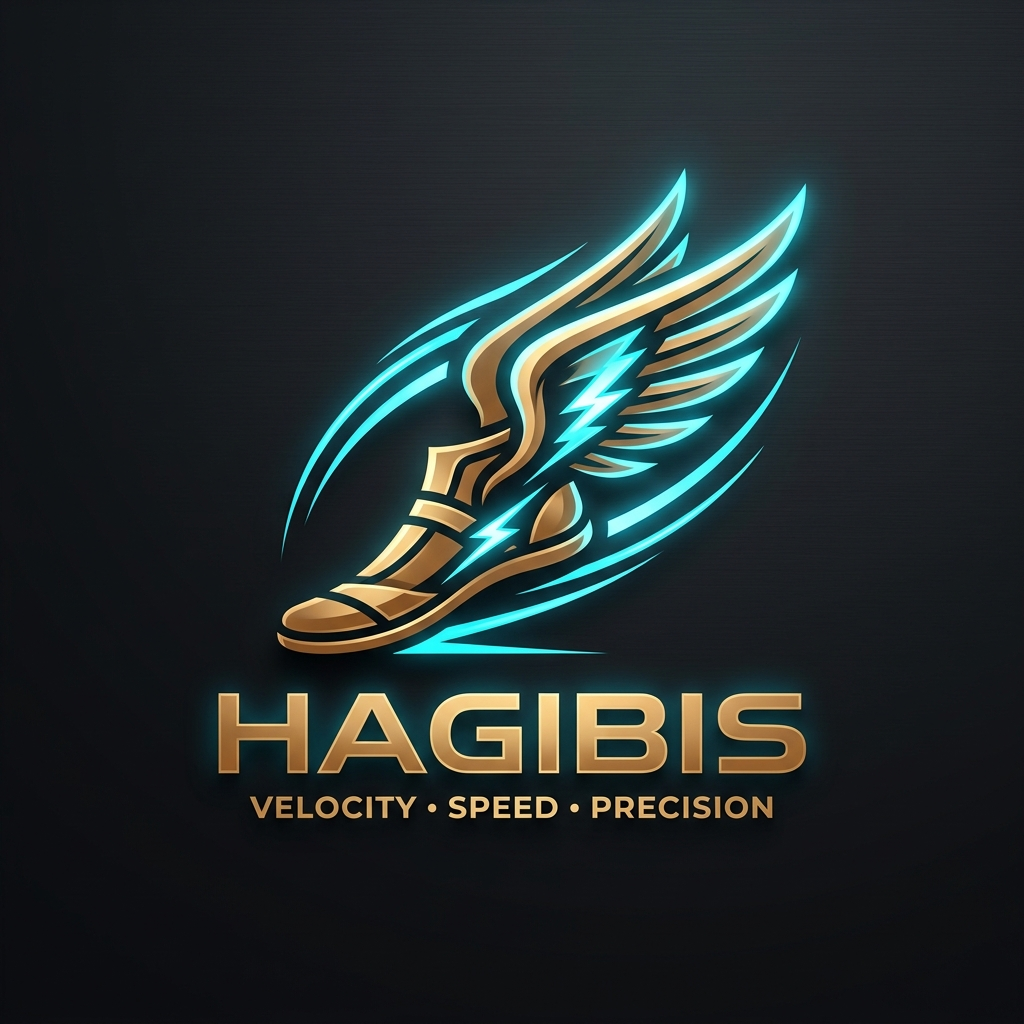
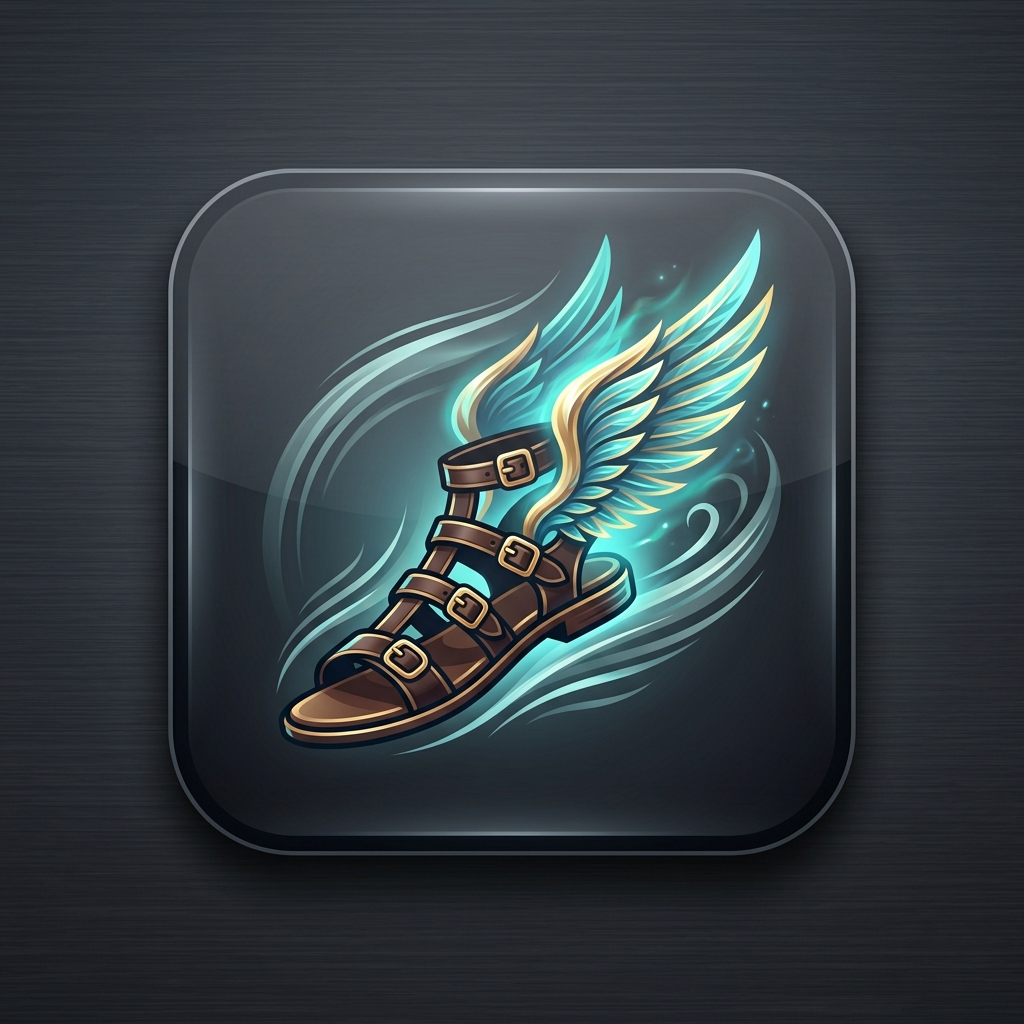
feat(brand): transition Hagibis iconography to Mercury's winged sandal (🪽)
- Replace lightning bolt (⚡) with Mercury's winged sandal emoji (🪽) across:
  * README.md headers, titles, and comparison tables
  * CLI binary (hgb) about descriptions and active model outputs
  * REPL prompts, status displays, and model registry banners
  * Cockpit TUI HUD titles, throughput metrics, and thinking spinners
  * Daemon error and connection status messages
- Update assets/hagibis-winged-sandal.png to pure mythological winged sandal of Mercury

diff --git a/crates/hgb-nextgen/src/cockpit.rs b/crates/hgb-nextgen/src/cockpit.rs
@@ -3106,7 +3106,7 @@ impl CockpitState {
         // --- 1. Top HUD ---
         let hud_block = Block::default()
             .borders(Borders::ALL)
-            .title(" ⚡ HAGIBIS AGY COCKPIT ⚡ ");
+            .title(" 🪽 HAGIBIS AGY COCKPIT 🪽 ");
 
         let temp_color = if self.telemetry.peak_temperature_celsius > 75.0 { Color::Red } else { Color::Green };
         let mut hud_row1 = vec![
@@ -3123,7 +3123,7 @@ impl CockpitState {
             let spinner = SPINNER_FRAMES[self.processing_tick % SPINNER_FRAMES.len()];
             hud_row1.push(Span::raw(" "));
             hud_row1.push(Span::styled(
-                format!(" [⚡ THINKING {}] ", spinner),
+                format!(" [🪽 THINKING {}] ", spinner),
                 Style::default().fg(Color::Black).bg(Color::Yellow).add_modifier(Modifier::BOLD),
             ));
         }
@@ -3133,7 +3133,7 @@ impl CockpitState {
             Line::from(vec![
                 Span::styled("🔥 Thermal: ", Style::default().fg(Color::Yellow)),
                 Span::styled(format!("{:.1}°C  ", self.telemetry.peak_temperature_celsius), Style::default().fg(temp_color).add_modifier(Modifier::BOLD)),
-                Span::styled("⚡ Throughput: ", Style::default().fg(Color::Yellow)),
+                Span::styled("🪽 Throughput: ", Style::default().fg(Color::Yellow)),
                 Span::styled(format!("{:.1} tok/s  ", self.telemetry.tokens_per_sec), Style::default().fg(Color::Cyan)),
                 Span::styled("📊 Tokens: ", Style::default().fg(Color::Yellow)),
                 Span::styled(format!("{}  ", self.telemetry.total_tokens), Style::default().fg(Color::White).add_modifier(Modifier::BOLD)),
@@ -3538,7 +3538,7 @@ impl CockpitState {
         let cwd_span = Span::styled(format!(" 📁 {} ", self.workspace_path), Style::default().fg(Color::DarkGray));
 
         let header_line = Line::from(vec![
-            Span::styled("⚡ HAGIBIS (hgb)", Style::default().fg(Color::Cyan).add_modifier(Modifier::BOLD)),
+            Span::styled("🪽 HAGIBIS (hgb)", Style::default().fg(Color::Cyan).add_modifier(Modifier::BOLD)),
             Span::raw(" "),
             cwd_span,
             Span::raw(" "),
@@ -3721,7 +3721,7 @@ impl CockpitState {
         // 7. Semantic Telepathy Cards
         for card in &self.telepathy_cards {
             chat_lines.push(Line::from(vec![
-                Span::styled("⚡ Telepathy Search: ", Style::default().fg(Color::Magenta).add_modifier(Modifier::BOLD)),
+                Span::styled("🪽 Telepathy Search: ", Style::default().fg(Color::Magenta).add_modifier(Modifier::BOLD)),
                 Span::styled(format!("\"{}\" ({} matches in {}µs)", card.query, card.matches_count, card.latency_us), Style::default().fg(Color::White)),
             ]));
             chat_lines.push(Line::from(vec![
@@ -3838,7 +3838,7 @@ impl CockpitState {
         for card in &self.governor_cards {
             let throttle_badge = if card.throttled { "⚠ THROTTLED" } else { "✓ OPTIMAL" };
             chat_lines.push(Line::from(vec![
-                Span::styled("⚡ Wattage Governor: ", Style::default().fg(Color::LightGreen).add_modifier(Modifier::BOLD)),
+                Span::styled("🪽 Wattage Governor: ", Style::default().fg(Color::LightGreen).add_modifier(Modifier::BOLD)),
                 Span::styled(format!("{:.0} mW | Spent: ${:.4} | {}", card.power_mw, card.spent_usd, throttle_badge), Style::default().fg(Color::White)),
             ]));
             chat_lines.push(Line::from(""));
@@ -3980,7 +3980,7 @@ impl CockpitState {
         // 24. Instant App Forge Cards
         for card in &self.forge_cards {
             let card_w = usable_width.saturating_sub(2).max(48);
-            let header_str = format!("╭── ⚡ App Forge [{}] ", card.stack);
+            let header_str = format!("╭── 🪽 App Forge [{}] ", card.stack);
             let header_w = UnicodeWidthStr::width(header_str.as_str());
             let dashes_count = card_w.saturating_sub(header_w + 1).max(2);
             let top_border = format!("{}{}{}╮", header_str, "─".repeat(dashes_count), " ");
@@ -5001,7 +5001,7 @@ impl CockpitState {
 
         // 5. Statusline Footer
         let bg_tasks_info = if !self.background_tasks.is_empty() {
-            format!("⚡ {} tasks ", self.background_tasks.len())
+            format!("🪽 {} tasks ", self.background_tasks.len())
         } else {
             String::new()
         };

diff --git a/crates/hgb-cli/src/main.rs b/crates/hgb-cli/src/main.rs
@@ -14,8 +14,8 @@ use repl::HagibisRepl;
     name = "hgb",
     bin_name = "hgb",
     version,
-    about = "⚡ Hagibis (hgb): Sub-Millisecond Microkernel & Swarm Engine in Systems-Grade Rust",
-    long_about = "⚡ Hagibis (hgb) — The Sub-Millisecond Microkernel Swarm Engine in Systems-Grade Rust.\nRunning without arguments launches the AGY Chat Canvas & Interactive Cockpit."
+    about = "🪽 Hagibis (hgb): Sub-Millisecond Microkernel & Swarm Engine in Systems-Grade Rust",
+    long_about = "🪽 Hagibis (hgb) — The Sub-Millisecond Microkernel Swarm Engine in Systems-Grade Rust.\nRunning without arguments launches the AGY Chat Canvas & Interactive Cockpit."
 )]
 struct Cli {
     /// Launch classic line-by-line scrolling terminal REPL instead of AGY Chat Canvas
@@ -756,9 +756,9 @@ async fn main() -> Result<(), Box<dyn std::error::Error>> {
             let active_model = active_model_str.as_str();
             let is_local = hgb_core::OllamaProvider::is_ollama_model(active_model);
             if is_local {
-                println!("{}", format!("  ⚡ Local Ollama Reasoning (model: {})...", active_model).magenta().bold());
+                println!("{}", format!("  🪽 Local Ollama Reasoning (model: {})...", active_model).magenta().bold());
             } else {
-                println!("{}", format!("  ⚡ AGY Reasoning (model: {})...", active_model).cyan().bold());
+                println!("{}", format!("  🪽 AGY Reasoning (model: {})...", active_model).cyan().bold());
             }
             let t0 = std::time::Instant::now();
             let req = HgbRequest::Prompt {
@@ -1074,14 +1074,14 @@ async fn main() -> Result<(), Box<dyn std::error::Error>> {
                 }
                 Some(ModelSubcommand::Current) => {
                     if let Some(persisted) = hgb_core::load_active_model() {
-                        println!("⚡ Currently Active Model: {}", persisted.bold().green());
+                        println!("🪽 Currently Active Model: {}", persisted.bold().green());
                         hgb_core::play_vibe_chime(true);
                     } else {
                         let resp = repl_helper.dispatch(HgbRequest::Status).await;
                         match resp {
                             HgbResponse::Status(s) => {
                                 let cur = s.active_models.first().cloned().unwrap_or_else(|| "auto".to_string());
-                                println!("⚡ Currently Active Model: {}", cur.bold().green());
+                                println!("🪽 Currently Active Model: {}", cur.bold().green());
                                 hgb_core::play_vibe_chime(true);
                             }
                             other => repl_helper.render_response(other),
@@ -1205,7 +1205,7 @@ async fn main() -> Result<(), Box<dyn std::error::Error>> {
         }
         Commands::Forge { stack, name } => {
             let project_name = name.as_deref().unwrap_or("my_vibe_app");
-            println!("{}", format!("⚡ Instant App Forge: Scaffolding '{}' with stack '{}'...", project_name, stack).bold().cyan());
+            println!("{}", format!("🪽 Instant App Forge: Scaffolding '{}' with stack '{}'...", project_name, stack).bold().cyan());
             let current_dir = std::env::current_dir().unwrap_or_else(|_| std::path::PathBuf::from("."));
             match hgb_core::forge::ForgeEngine::scaffold(stack.as_str(), project_name, &current_dir) {
                 Ok(rep) => {
@@ -1434,7 +1434,7 @@ async fn main() -> Result<(), Box<dyn std::error::Error>> {
         Commands::Ghost { apply } => {
             let repl_helper = HagibisRepl::new(client);
             let resp = if let Some(fix_id) = apply {
-                println!("{}", format!("⚡ Applying Ghost-Fix '{}'...", fix_id).cyan().bold());
+                println!("{}", format!("🪽 Applying Ghost-Fix '{}'...", fix_id).cyan().bold());
                 repl_helper.dispatch(HgbRequest::GuardianApplyFix { fix_id }).await
             } else {
                 repl_helper.dispatch(HgbRequest::GuardianStatus).await

diff --git a/crates/hgb-cli/src/repl.rs b/crates/hgb-cli/src/repl.rs
@@ -1336,7 +1336,7 @@ impl HagibisRepl {
                 } else if lower == "current" || lower == "status" || lower == "get" {
                     let current = self.model.as_deref().unwrap_or("auto");
                     let is_local = hgb_core::OllamaProvider::is_ollama_model(current);
-                    println!("  ⚡ Current active model: {}", current.bold().green());
+                    println!("  🪽 Current active model: {}", current.bold().green());
                     if is_local {
                         let ollama_status = if hgb_core::OllamaProvider::is_available() {
                             "Local Ollama Engine (online, 0ms latency, zero cloud cost)".magenta()
@@ -2094,7 +2094,7 @@ impl HagibisRepl {
             "Offline".dimmed().to_string()
         };
 
-        println!("\n{}", "⚡ HAGIBIS MODEL REGISTRY ⚡".bold().cyan());
+        println!("\n{}", "🪽 HAGIBIS MODEL REGISTRY 🪽".bold().cyan());
         println!("  [•] Active Model: {}", current.yellow().bold());
         println!("  [•] Google Gemini Cloud: {}", cred.cyan());
         println!("  [•] Local Ollama Engine: {}", ollama_status);
@@ -2143,7 +2143,7 @@ impl HagibisRepl {
                 println!("{} Daemon pong received in {} µs", "✔ PONG:".green().bold(), latency_us);
             }
             HgbResponse::Status(status) => {
-                println!("{}", "⚡ HAGIBIS RESIDENT DAEMON STATUS ⚡".bold().cyan());
+                println!("{}", "🪽 HAGIBIS RESIDENT DAEMON STATUS 🪽".bold().cyan());
                 println!("  [•] Version: {}", status.version.yellow());
                 println!("  [•] Uptime: {} secs", status.uptime_secs);
                 println!("  [•] Memory RSS: {:.1} MB", status.memory_rss_mb);
@@ -2183,7 +2183,7 @@ impl HagibisRepl {
                 println!("{} {} ➔ {} (in {} ms)", "✔ Model Switched:".green().bold(), previous.dimmed(), current.bold().cyan(), duration_ms);
             }
             HgbResponse::ModelList(models) => {
-                println!("{}", "⚡ AVAILABLE AI MODELS ⚡".bold().cyan());
+                println!("{}", "🪽 AVAILABLE AI MODELS 🪽".bold().cyan());
                 let current = self.model.as_deref().unwrap_or("auto");
                 let mut local_models = Vec::new();
                 let mut cloud_models = Vec::new();
@@ -2307,7 +2307,7 @@ impl HagibisRepl {
                 }
             }
             HgbResponse::GhostFixApplied { report } => {
-                println!("{} {}", "⚡ Ghost-Fix Applied:".green().bold(), report);
+                println!("{} {}", "🪽 Ghost-Fix Applied:".green().bold(), report);
             }
             HgbResponse::DevServerEndpoints(endpoints) => {
                 println!("{}", "🌐 DEVSERVER SENTINEL: ACTIVE ENDPOINTS 🌐".bold().cyan());
@@ -2626,7 +2626,7 @@ impl HagibisRepl {
     }
 
     fn print_help(&self) {
-        println!("{}", "⚡ Hagibis Interactive REPL Commands ⚡".bold().cyan());
+        println!("{}", "🪽 Hagibis Interactive REPL Commands 🪽".bold().cyan());
         println!("  {}", "--- Core Commands ---".dimmed());
         println!("  {:<25} {}", "/help, /?".green(), "Show this help table");
         println!("  {:<25} {}", "/clear, /cls".green(), "Clear terminal screen");

diff --git a/crates/hgb-daemon/src/server.rs b/crates/hgb-daemon/src/server.rs
@@ -300,7 +300,7 @@ impl HagibisDaemon {
                     "Offline"
                 };
                 let output = format!(
-                    "⚡ Hagibis Microkernel: No active model connection for '{}'.\n• Google Gemini: {}\n• Local Ollama: {}\n\nTo connect:\n  - Gemini: run 'hgb login' or export GEMINI_API_KEY=...\n  - Ollama: run 'ollama serve' and specify '-m qwen2.5-coder:1.5b' or any installed model.",
+                    "🪽 Hagibis Microkernel: No active model connection for '{}'.\n• Google Gemini: {}\n• Local Ollama: {}\n\nTo connect:\n  - Gemini: run 'hgb login' or export GEMINI_API_KEY=...\n  - Ollama: run 'ollama serve' and specify '-m qwen2.5-coder:1.5b' or any installed model.",
                     req_model,
                     cred_status,
                     ollama_status

diff --git a/README.md b/README.md
@@ -2,7 +2,7 @@
   <img src="assets/hagibis-winged-sandal.png" alt="Hagibis — The Winged Sandal of Mercury" width="280" style="border-radius: 24px; box-shadow: 0 12px 36px rgba(0, 240, 255, 0.25);" />
 </p>
 
-<h1 align="center">⚡ HAGIBIS (<code>hgb</code>) ⚡</h1>
+<h1 align="center">🪽 HAGIBIS (<code>hgb</code>) 🪽</h1>
 
 <p align="center">
   <strong>The Sub-Millisecond Microkernel & Swarm Engine for Vibe Code Developers</strong><br>
@@ -13,7 +13,7 @@
   <a href="https://github.com/CharleGutierrez/hagibis/actions"><img src="https://img.shields.io/badge/build-passing-brightgreen?style=for-the-badge&logo=rust" alt="Build Status" /></a>
   <a href="https://github.com/CharleGutierrez/hagibis"><img src="https://img.shields.io/badge/IPC%20Latency-12_%C2%B5s-cyan?style=for-the-badge&logo=speedtest" alt="IPC Latency" /></a>
   <a href="https://github.com/CharleGutierrez/hagibis"><img src="https://img.shields.io/badge/Daemon%20RSS-8.4_MB-blueviolet?style=for-the-badge" alt="Memory RSS" /></a>
-  <a href="https://github.com/CharleGutierrez/hagibis"><img src="https://img.shields.io/badge/Vibe%20Superpowers-1000x%20Real-orange?style=for-the-badge&logo=lightning" alt="Vibe Superpowers" /></a>
+  <a href="https://github.com/CharleGutierrez/hagibis"><img src="https://img.shields.io/badge/Vibe%20Superpowers-1000x%20Real-orange?style=for-the-badge&logo=feather" alt="Vibe Superpowers" /></a>
   <a href="https://github.com/CharleGutierrez/hagibis/blob/main/LICENSE"><img src="https://img.shields.io/badge/license-MIT%20%2F%20Apache--2.0-blue?style=for-the-badge" alt="License" /></a>
 </p>
 
@@ -23,16 +23,16 @@
 
 In ancient mythology, **Hermes / Mercury**—the messenger of the gods—traversed the cosmos at lightning speed not by walking or straining, but by wearing **Talaria**, the legendary **winged golden sandals**. With them, distance vanished, gravity lost its grip, and the messenger arrived at his destination before ordinary mortals took their first stride.
 
-In the Philippines, **Hagibis** signifies *supreme velocity with unstoppable force*—the sudden, roaring rush of wind and lightning.
+In the Philippines, **Hagibis** signifies *supreme velocity with unstoppable force*—the sudden, roaring rush of wind and speed.
 
 > **Hagibis is the Winged Sandal for the Vibe Coder.**  
 > It strips away boilerplate, eliminates 40MB binary bloat, cuts compile-and-wait friction to zero, and lifts you into pure creative flow. When you put on Hagibis, you don't wait for your tools—your tools run ahead of your imagination.
 
 ---
 
-## ⚡ What Makes Hagibis the Ultimate Vibe Coding Engine?
+## 🪽 What Makes Hagibis the Ultimate Vibe Coding Engine?
 
-| Traditional AI Tooling | ⚡ Hagibis (`hgb`) Vibe Engine |
+| Traditional AI Tooling | 🪽 Hagibis (`hgb`) Vibe Engine |
 | :--- | :--- |
 | **Heavy bloat:** 40MB–100MB Node/Python runtimes, high CPU & battery drain | **Systems-Grade Rust:** Sub-1MB binaries (`hgb` is 939 KB), 8.4 MB daemon RSS |
 | **Sluggish responses:** 1–3 second local latency before token streaming begins | **Sub-Millisecond Microkernel:** 12 µs Unix Domain Socket IPC, instant responsiveness |
@@ -206,5 +206,5 @@ at your option.
 ---
 
 <p align="center">
-  <strong>Put on the winged sandals. Join the velocity revolution with Hagibis. ⚡</strong>
+  <strong>Put on the winged sandals. Join the velocity revolution with Hagibis. 🪽</strong>
 </p>
